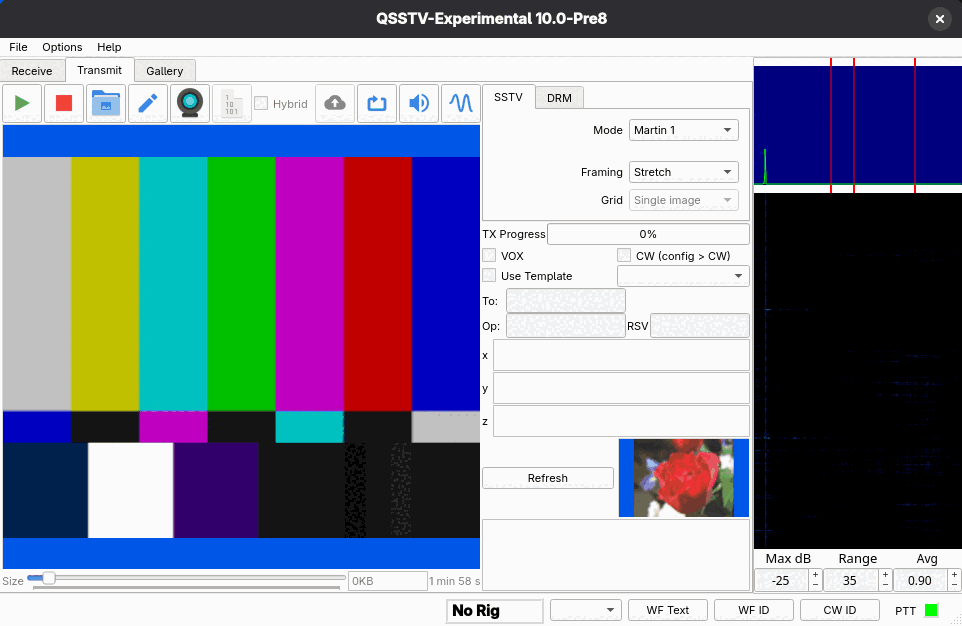
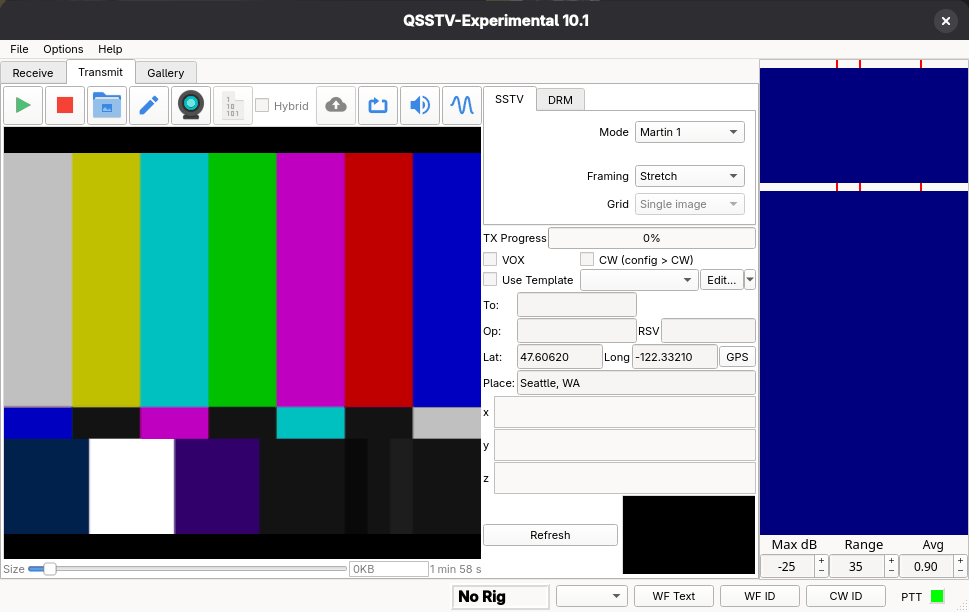
Transmit tab: space the position boxes, keep the window width; update the User Guide (#124)
- Transmit tab: one pixel between the To, Op, Lat and Place rows, like the x, y
  and z boxes. Lat and Long are the same fixed width (86 px, enough for
  -122.33210) in one row with the GPS button, so the row is no wider than the
  ones above it and the window opens as wide as it did before the Lat, Long
  and Place boxes.
- User guide: new screenshots of the Transmit tab (SSTV and DRM) and of the
  GPS configuration page, a GPS figure in Configuration, and Troubleshooting
  entries for the GPS port, "no GPS data" / "no position fix", and an empty
  Place box.

diff --git a/documentation/userguide/pages/troubleshooting.html b/documentation/userguide/pages/troubleshooting.html
@@ -54,6 +54,9 @@
 <dt>My template shows the wrong font</dt><dd>The font is not installed on this computer; another one is used. The template editor shows a notice for such a text and keeps the font name, so the template still looks right on a computer that has the font.</dd>
 <dt>Distorted transmit audio</dt><dd>Lower the output level and check the radio's ALC. Use the tone test (see <a href="transmit.html#tones">Tones and sweeps</a>).</dd>
 <dt>The picture is cropped or letterboxed on the transmit side</dt><dd>Change <strong>Framing</strong> between Stretch, Crop, Fit and Free.</dd>
+<dt>The GPS button says it cannot open the port</dt><dd>Check the port in <a href="configuration.html#gps">Configuration &gt; GPS</a> (<strong>Rescan</strong> lists the ports found). On Linux your user must be allowed to use the serial port, usually by being in the <code>dialout</code> group; log out and in again after joining it. Close any other program that is reading the receiver, and use a port other than the CAT and PTT ports.</dd>
+<dt>"No GPS data" or "has no position fix yet"</dt><dd>"No GPS data" means nothing readable arrived: the port or the baud rate is wrong (most receivers use 4800 or 9600, try the other one). "No position fix yet" means the receiver talks but has not found its position; give it a clear view of the sky, a cold start can take several minutes. <strong>Test</strong> on the GPS page tells which of the two you have.</dd>
+<dt>The Place box stays empty</dt><dd>Tick <em>Look up the city and state on the internet</em> on the <a href="configuration.html#gps">GPS page</a> and make sure the computer is online; <strong>Test</strong> there shows the reason when the lookup fails. On Linux the OpenSSL libraries must be installed for the secure connection. The box can always be filled in by hand.</dd>
 </dl>
 
 <h2 id="files">Files and settings</h2>

diff --git a/documentation/userguide/pages/transmit.html b/documentation/userguide/pages/transmit.html
@@ -28,7 +28,7 @@
 <li>Check your audio level, then press the green <strong>Start transmit</strong> button. <strong>TX Progress</strong> shows how far
  along it is. The red square stops the transmission and returns to receive.</li>
 </ol>
-<figure><img src="../images/tx-sstv.png" alt="The Transmit tab with the SMPTE color bar test pattern loaded, SSTV mode Martin 1, framing and grid controls" loading="lazy"><figcaption>The Transmit tab with a test pattern loaded and the SSTV settings tab selected.</figcaption></figure>
+<figure><img src="../images/tx-sstv.png" alt="The Transmit tab with the SMPTE color bar test pattern loaded, SSTV mode Martin 1, framing and grid controls, and the To, Op, RSV, Lat, Long and Place boxes" loading="lazy"><figcaption>The Transmit tab with a test pattern loaded and the SSTV settings tab selected.</figcaption></figure>
 
 <div class="warn"><p>Set your transmit audio level so the radio is not overdriven. Use a tone (see <a href="#tones">below</a>) or the
 test pattern into a dummy load to adjust it.</p></div>

diff --git a/documentation/userguide/pages/configuration.html b/documentation/userguide/pages/configuration.html
@@ -106,6 +106,8 @@ With CAT working, the status bar shows the rig frequency.</p>
 <p>The time in seconds between keying the transmitter and starting the audio, for radios that need a moment to switch.</p>
 
 <h2 id="gps">GPS</h2>
+<figure><img src="../images/cfg-gps.png" alt="The GPS configuration page with enable checkbox, serial port, baud rate, beacon option, city and state lookup option and a Test button" loading="lazy"><figcaption>GPS page.</figcaption></figure>
+
 <p>Reads the position of the station from a GPS receiver that sends NMEA sentences over a serial port (most USB GPS receivers do). The position goes into the <em>Lat</em> and
 <em>Long</em> boxes on the Transmit tab and from there into the <code>%a</code> and <code>%b</code> template macros; see <a href="transmit.html#gps">GPS position</a>.</p>
 <p>Tick <strong>Enable GPS</strong>, choose the <strong>Serial port</strong> (the list shows the ports found; <strong>Rescan</strong> looks again, and you can type a name that is not listed) and the

diff --git a/documentation/userguide/pages/drm.html b/documentation/userguide/pages/drm.html
@@ -32,7 +32,7 @@ settings tab on the Receive and Transmit pages; DRM is the <strong>DRM</strong> 
  Smaller means a faster but lower-quality picture.</li>
 <li>Press Start transmit.</li>
 </ol>
-<figure><img src="../images/tx-drm.png" alt="The Transmit tab with the DRM settings: mode, QAM, bandwidth, interleave, protection, profile and Reed-Solomon" loading="lazy"><figcaption>Transmit tab, DRM settings.</figcaption></figure>
+<figure><img src="../images/tx-drm.png" alt="The Transmit tab with the DRM settings: mode, QAM, bandwidth, interleave, protection, profile, Reed-Solomon and picture encoding" loading="lazy"><figcaption>Transmit tab, DRM settings.</figcaption></figure>
 
 <h2 id="params">Parameters</h2>
 <p>These come from the tooltips in the program.</p>
